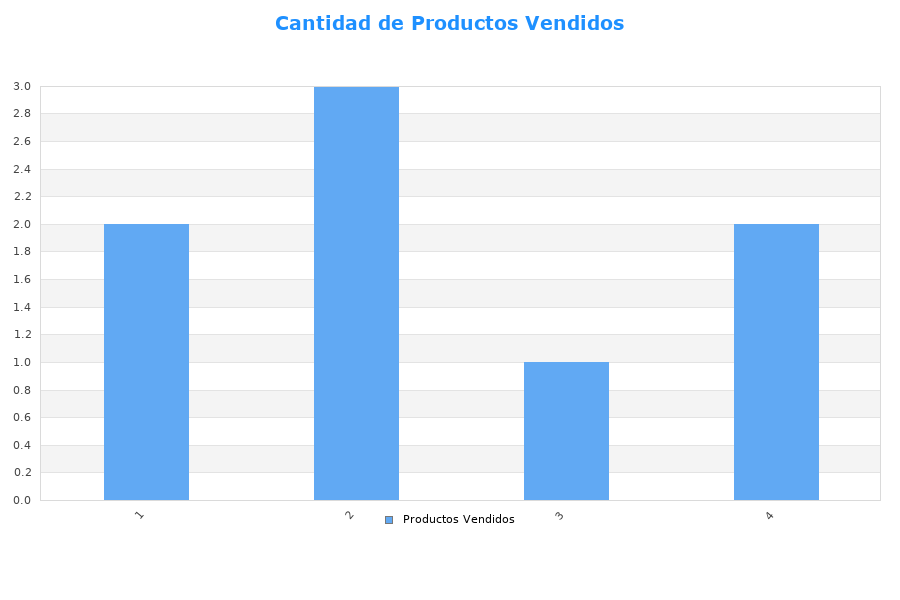
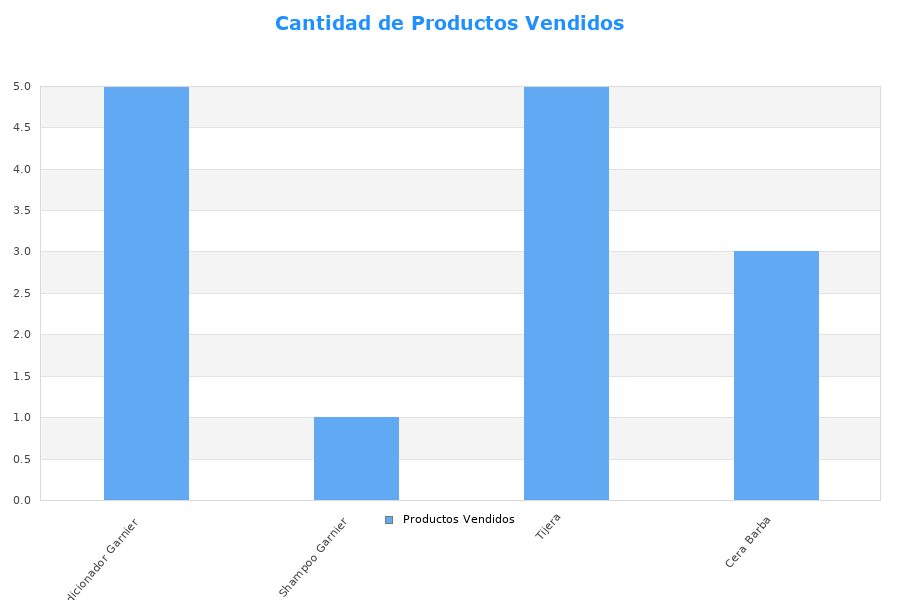
Gráfico
Anda bien

diff --git a/Vista/Graficos/productos_vendidos_graf_de_barras.php b/Vista/Graficos/productos_vendidos_graf_de_barras.php
@@ -55,11 +55,22 @@ $graph->xaxis->SetTickLabels($labels); // Nombres de los productos en el eje X
 $graph->xaxis->SetLabelAngle(50); // Inclina las etiquetas si son largas
 
 // Ruta donde se guardará la imagen
-$ruta = "g.png";
+$ruta = "grafico.png";
 
-// Mostrar el gráfico
+// Eliminar el archivo si ya existe
+if (file_exists($ruta)) {
+    unlink($ruta);
+}
+
+// Mostrar el grafico
 $graph->Stroke($ruta);  // Esto genera la imagen para mostrar
 
+//Mensaje de verificacion
+if (file_exists($ruta)) {
+    echo "El gráfico se ha generado y guardado como 'grafico.png'.";
+} else {
+    echo "Hubo un problema al generar el gráfico.";
+}
 
 /*
 $dir = 'grafico.png';

diff --git a/Vista/Graficos/mostrar_grafico.php b/Vista/Graficos/mostrar_grafico.php
@@ -19,7 +19,7 @@ include_once "../Estructura/header.php";
     <!-- Imagen del gráfico -->
     <div class="img_grafico">
         <div>
-            <img src="g.png" alt="Gráfico de Productos Vendidos">
+            <img src="grafico.png" alt="Gráfico de Productos Vendidos">
         </div>
     </div>
 
